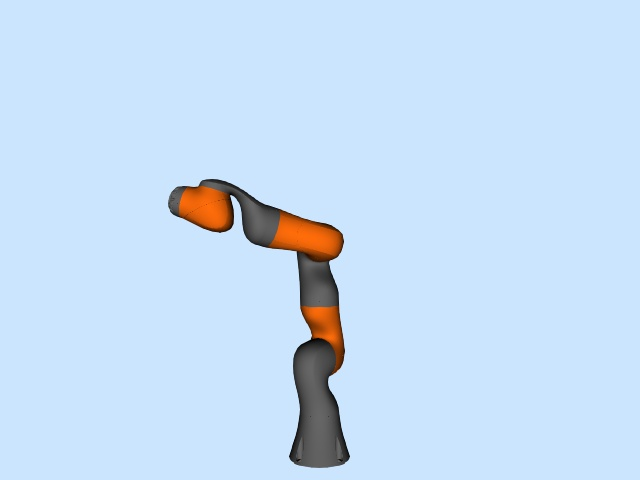
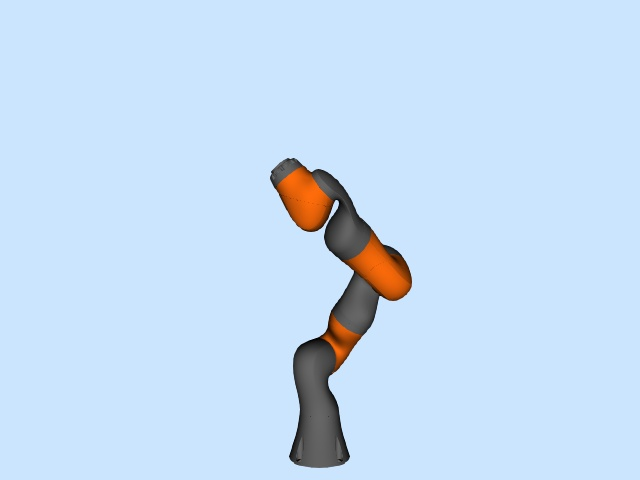
getting 3D keypoints

Changed region(s): [[0.25, 0.3125, 0.6562, 0.7812]]

diff --git a/DrakeDataCapture/data_generation_kuka_arm.py b/DrakeDataCapture/data_generation_kuka_arm.py
@@ -12,6 +12,7 @@ from copy import deepcopy
 import cv2
 import keyboard
 import json
+from IPython.display import clear_output, display
 sys.path.append('/home/jayaram/robot_manipulation_drake/Ropoes_project_code/dream_code')
 #from dream_code.scripts.network_inference import network_inference
 
@@ -52,7 +53,8 @@ from pydrake.systems.sensors import (
     RgbdSensor,
 )
 
-from pydrake.all import InverseDynamicsController
+from pydrake.all import InverseDynamicsController, LeafSystem, AbstractValue
+from manipulation.scenarios import AddMultibodyTriad
 #from manipulation.scenarios import AddRgbdSensors
 
 # import torch
@@ -110,6 +112,23 @@ meshcat = StartMeshcat()
 #         Y = (v-cy) * Z/fy
 #         pC = np.c_[X,Y,Z]
 #         return pC
+
+class PrintPose(LeafSystem):
+    def __init__(self, body_index):
+        LeafSystem.__init__(self)
+        self._body_index = body_index
+        self.DeclareAbstractInputPort("body_poses", AbstractValue.Make([RigidTransform()]))
+        self.DeclareForcedPublishEvent(self.Publish)
+
+    def Publish(self, context):
+        pose = self.get_input_port().Eval(context)[self._body_index]
+        clear_output(wait=True)
+        print("gripper position (m): " + np.array2string(
+            pose.translation(), formatter={
+                'float': lambda x: "{:3.2f}".format(x)}))
+        print("gripper roll-pitch-yaw (rad):" + np.array2string(
+            RollPitchYaw(pose.rotation()).vector(),
+                         formatter={'float': lambda x: "{:3.2f}".format(x)}))
 
 # To inspect our own URDF files.
 def model_inspector(filename): # filename will be model's sdf or urdf file
@@ -201,7 +220,7 @@ def create_scene(sim_time_step=0.0001, n_cameras = 1, n_tracks = 1):
 
     # Load iiwa arm in simulator.
     model_sdf = FindResourceOrThrow("drake/manipulation/models/iiwa_description/iiwa7/iiwa7_with_box_collision.sdf")
-    model = parser.AddModelFromFile(model_sdf, model_name = "iiwa_1")
+    model = parser.AddModelFromFile(model_sdf, model_name = "iiwa_1")   #model_instance
 
     # Weld the arm to the world so that it's fixed during the simulation.
     #model_frame = plant.GetFrameByName("table_top_center")
@@ -292,15 +311,39 @@ def create_scene(sim_time_step=0.0001, n_cameras = 1, n_tracks = 1):
         builder, scene_graph, meshcat,
         MeshcatVisualizerParams(role=Role.kPerception, prefix="visual"))
     
+    #initialize controller for joints of model after plant is finalized with models
     iiwa_controller = iiwa_controller_fn(builder, plant, model)
 
+    # Draw the frames
+    # for body_name in ["iiwa_link_1", "iiwa_link_2", "iiwa_link_3", "iiwa_link_4", "iiwa_link_5", "iiwa_link_6", "iiwa_link_7"]:
+    #     AddMultibodyTriad(plant.GetFrameByName(body_name), scene_graph)
+
+    # gripper = plant.GetBodyByName("iiwa_link_3", model)
+    #type of gripper: <class 'pydrake.multibody.tree.RigidBody_[float]'>
+
+    # type:<class 'pydrake.multibody.tree.BodyFrame_[float]'  --> same instance type as plant.world_frame()
+    # <BodyFrame_[float] name='iiwa_link_3' index=4 model_instance=2>
+    # link_0_pose = iiwa_link_0_frame.CalcPoseInBodyFrame()
+
+    # link_3_pose = iiwa_link_3_frame.GetFixedPoseInBodyFrame()
+    # print('link_3_pose:{}'.format(link_3_pose))
+
+    # print('gripper pose : {}'.format(gripper.get_pose_in_world()))
+    # gripper_context = gripper.DoAllocateContext()
+    # print(gripper)
+    # gripper_context  = gripper.index()   #gripper.index() is LeafSystem
+    # print_pose = builder.AddSystem(PrintPose(gripper.index()))
+    # builder.Connect(plant.get_body_poses_output_port(),
+    #                 print_pose.get_input_port())
+
+    # PrintPose(gripper.index()).Publish(gripper_context)
     diagram = builder.Build()
 
     # sensors = []
     # sensors.append(CameraSystem(0, meshcat, diagram, context))
     # sensors.append(CameraSystem(1, meshcat, diagram, context))
 
-    return diagram, builder, plant, visualizer, scene_graph, iiwa_controller, sensors, model, projection_matrices
+    return diagram, builder, plant, plant_context, visualizer, scene_graph, iiwa_controller, sensors, model, projection_matrices
 
 
 def initialize_simulation(diagram):
@@ -342,8 +385,13 @@ def triangulation_DLT(P1, P2, kp1, kp2):
     #print(Vh[3,0:3]/Vh[3,3])
     return Vh[3,0:3]/Vh[3,3]
 
-def get_3d_joints():
-    pass
+def get_3d_joints(plant_context, joint_frames):
+    #compute relative T b.w each of joint of iiwa links wrt first joint of iiwa_link_0 as we welded first joint of iiwa_link_0 to world frame in plant
+    joint_poses_wrt_joint0 = []
+    for i in range(8):
+        joint_poses_wrt_joint0.append((joint_frames[i].CalcPoseInWorld(plant_context)).translation())
+    joint_poses_wrt_joint0 = np.array(joint_poses_wrt_joint0)
+    return joint_poses_wrt_joint0
 
 def iiwa_controller_fn(builder, plant, model):
     Kp = np.full(7, 100)
@@ -361,7 +409,7 @@ def iiwa_controller_fn(builder, plant, model):
 
     return iiwa_controller
 
-def iiwa_position_set(context, plant, diagram, iiwa_controller, position_vector):    
+def iiwa_position_set(context, plant, diagram, iiwa_controller, position_vector, model):    
     #extract context from the diagram
     # context = diagram.CreateDefaultContext()
     #extract plant context from the full context
@@ -369,10 +417,23 @@ def iiwa_position_set(context, plant, diagram, iiwa_controller, position_vector)
     q0 = q0 = np.array(position_vector)
     x0 = np.hstack((q0, 0*q0))
     plant.SetPositions(plant_context, q0)
-    iiwa_controller.GetInputPort('desired_state').FixValue(iiwa_controller.GetMyMutableContextFromRoot(context), x0)
-    return context
 
-def orient_arms(diagram, builder, plant, visualizer, scene_graph, iiwa_controller, model, sensor, context, camera_no, track_no, sim_count_pic):
+    #get joints/links info
+    thetas = plant.GetPositions(plant_context)   #these will give angles
+    print('thetas between links :{}'.format(thetas))    #this will print theta between diff links
+
+    joint_pos = 1
+    joint_indices = plant.GetJointIndices(model)
+    joint = plant.get_joint(joint_indices[joint_pos])
+    f = joint.frame_on_parent()
+    print('T matrix:{}'.format(f.GetFixedPoseInBodyFrame()))
+    # print('joint positon :{}'.format(joint.GetOnePosition(plant_context)))  #this will give just single theta
+    print('joint at pos {}:{}'.format(joint_pos, joint))
+
+    iiwa_controller.GetInputPort('desired_state').FixValue(iiwa_controller.GetMyMutableContextFromRoot(context), x0)
+    return context, plant_context
+
+def orient_arms(diagram, builder, plant, visualizer, scene_graph, iiwa_controller, model, sensor, context, plant_context, camera_no, track_no, sim_count_pic):
     #step1: get arm from scene
     diagram_context = context #diagram.CreateDefaultContext()
     sensor_context = sensor.GetMyMutableContextFromRoot(diagram_context)
@@ -382,11 +443,16 @@ def orient_arms(diagram, builder, plant, visualizer, scene_graph, iiwa_controlle
 
     #step2: change individual link positions
     # iiwa_controller = iiwa_controller_fn(builder, plant, model)
-    position_vector = [1, 0.7, 1, 1.3, 1.5, 0.5, 0.3]   #these are angles in radians at each joint
-    context = iiwa_position_set(context, plant, diagram, iiwa_controller, position_vector)
+    # position_vector = [0.0, 0.0, 0.0, 0.0, 0.0, 0.0, 0.0]
+    position_vector = [1, 0.7, 1, 1.3, 1.5, 0.65, 0.6]   #these are angles in radians at each joint
+    context, plant_context = iiwa_position_set(context, plant, diagram, iiwa_controller, position_vector, model)
 
     #step3: get 3d points in that particular arm conf
-    key_points_3d = get_3d_joints()
+    joint_frames = []  #these are frames at each of joint of model in plant
+    for i in range(8):
+        joint_frames.append(plant.GetFrameByName("iiwa_link_" + str(i) , model))
+    key_points_3d = get_3d_joints(plant_context, joint_frames)
+    print('3d keypoints: \n {}'.format(key_points_3d))   #there are 8 joints in kuka arm
 
     #step4: Take pic after orienting diff inks in arm 
     # Note: latest context is required for takePic fn
@@ -394,20 +460,20 @@ def orient_arms(diagram, builder, plant, visualizer, scene_graph, iiwa_controlle
     
     return key_points_3d, color, depth, arm_conf_name
 
-def create_json(arm_conf_name, P, key_points_3d):  #n*3
-    n_points = len(key_points_3d)
-    kp_homogneous_3d = np.c_(key_points_3d, np.ones(n_points))  #n*4
+def create_json(arm_conf_name, P, key_points_3d):  #n*3   (n = 7)
+    n_points = key_points_3d.shape[0]
+    kp_homogneous_3d = np.c_[key_points_3d, np.ones(n_points).reshape(-1, 1)]  #n*4
     kp_homogenous_2d = np.dot(P, kp_homogneous_3d.T)  #3*n
     kp_homogenous_2d = kp_homogenous_2d.T  #n*3
-    kp_homogenous_2d = kp_homogenous_2d / kp_homogenous_2d[: ,2]
+    kp_homogenous_2d = kp_homogenous_2d / kp_homogenous_2d[: ,2].reshape(-1, 1)
     key_points_2d = kp_homogenous_2d[:, :2]  #n*2
 
     kps_list = []
     joint_names = ["iiwa7_link_0", "iiwa7_link_1", "iiwa7_link_2", "iiwa7_link_3", "iiwa7_link_4", "iiwa7_link_5", "iiwa7_link_6", "iiwa7_link_7"]
     for i,joint_name in enumerate(joint_names):
         kps_list.append({"name": joint_name,
-					    "location": key_points_3d[i, :],
-					    "projected_location": key_points_2d[i, :]})
+					    "location": key_points_3d[i, :].tolist(),
+					    "projected_location": key_points_2d[i, :].tolist()})
 
     #create json file in w mode and insert data 
     with open(arm_conf_name + '.json', 'w') as f:
@@ -423,7 +489,7 @@ def create_json(arm_conf_name, P, key_points_3d):  #n*3
                             }
                         ]
                    }
-        json.dumps(data_dict, f)
+        json.dump(data_dict, f, indent = 5)
 
 # Capture 
 def generate_dataset(args, sim_time_step):
@@ -431,9 +497,9 @@ def generate_dataset(args, sim_time_step):
     #initalize count of pics taken in simulation
     sim_count_pic = 1
     #transformations b/w every pair of cameras in multi camera system
-    n_cameras = 10
-    n_tracks = 4
-    diagram, builder, plant, visualizer, scene_graph, iiwa_controller, sensors, model, projection_matrices = create_scene(sim_time_step, n_cameras, n_tracks)
+    n_cameras = 7
+    n_tracks = 2
+    diagram, builder, plant, plant_context, visualizer, scene_graph, iiwa_controller, sensors, model, projection_matrices = create_scene(sim_time_step, n_cameras, n_tracks)
 
     print('total no of sensors: {}'.format(len(sensors)))
     simulator = initialize_simulation(diagram)
@@ -442,15 +508,15 @@ def generate_dataset(args, sim_time_step):
             n_times = 0
             n_arm_conf = 0  #conf of arm in current camera position
             while(True):    # we can orient diff joints of arm and take pic (TakePic is called inside orient_arms)
-                key_points_3d, color, depth, arm_conf_name = orient_arms(diagram, builder, plant, visualizer, scene_graph, iiwa_controller, model, sensors[(track_no * n_cameras) + camera_no], diagram.CreateDefaultContext(), camera_no, track_no, sim_count_pic)
+                key_points_3d, color, depth, arm_conf_name = orient_arms(diagram, builder, plant, visualizer, scene_graph, iiwa_controller, model, sensors[(track_no * n_cameras) + camera_no], diagram.CreateDefaultContext(), plant_context, camera_no, track_no, sim_count_pic)
                 images_sensors.append((color, depth))
                 n_arm_conf = n_arm_conf + 1
 
                 P = projection_matrices[(track_no * n_cameras) + camera_no]
                 #create json file based on the above information of 3d key points of joints and Projection matrix of current sensor
-                #create_json(arm_conf_name, P, key_points_3d)
+                create_json(arm_conf_name, P, key_points_3d)
 
-                if(n_times == 5):
+                if(n_times == 1):
                     break
 
                 # if(keyboard.is_pressed('q')):

diff --git a/DrakeDataCapture/joints_extraction_3d.py b/DrakeDataCapture/joints_extraction_3d.py
@@ -204,7 +204,8 @@ def create_scene(sim_time_step=0.0001):
     #plant.WeldFrames(plant.world_frame(), model_frame)
     # Welding multi link robot on a particular pose
     plant.WeldFrames(
-        frame_on_parent_P=plant.world_frame(),
+        frame_on_parent_P=plant.world_frame(),    
+        # type of world frame: type :<class 'pydrake.multibody.tree.BodyFrame_[float]'
         frame_on_child_C=plant.GetFrameByName("iiwa_link_0", iiwa_1),
         X_PC=xyz_rpy_deg([0, 0, 0], [0, 0, 0]),
     )
@@ -212,7 +213,7 @@ def create_scene(sim_time_step=0.0001):
     # Add Camera and renderer
     renderer_name = "renderer"
     scene_graph.AddRenderer(renderer_name, MakeRenderEngineVtk(RenderEngineVtkParams()))
-    world_id = plant.GetBodyFrameIdOrThrow(plant.world_body().index())
+    world_id = plant.GetBodyFrameIdOrThrow(plant.world_body().index())    #type = <class 'pydrake.geometry.FrameId'>
 
     #
     #AddRgbdSensors(builder, plant, scene_graph)
